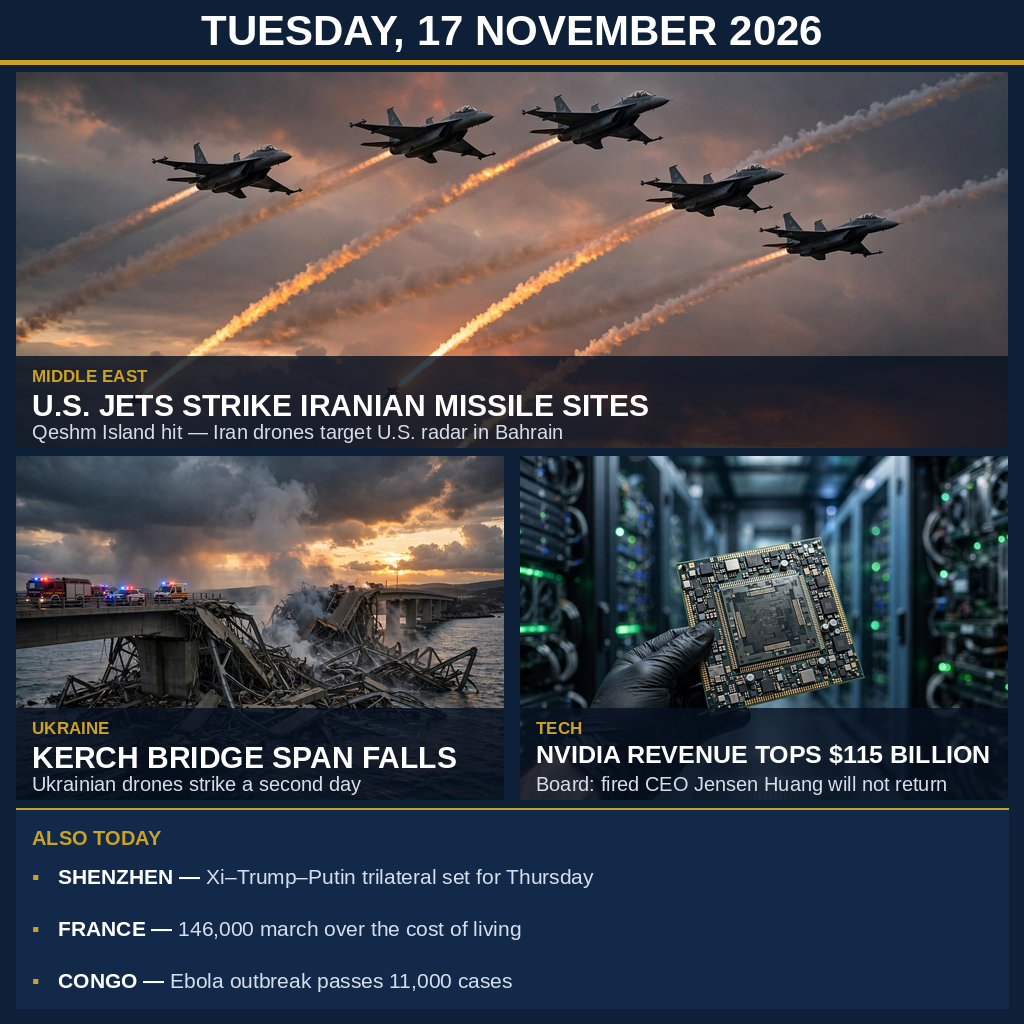
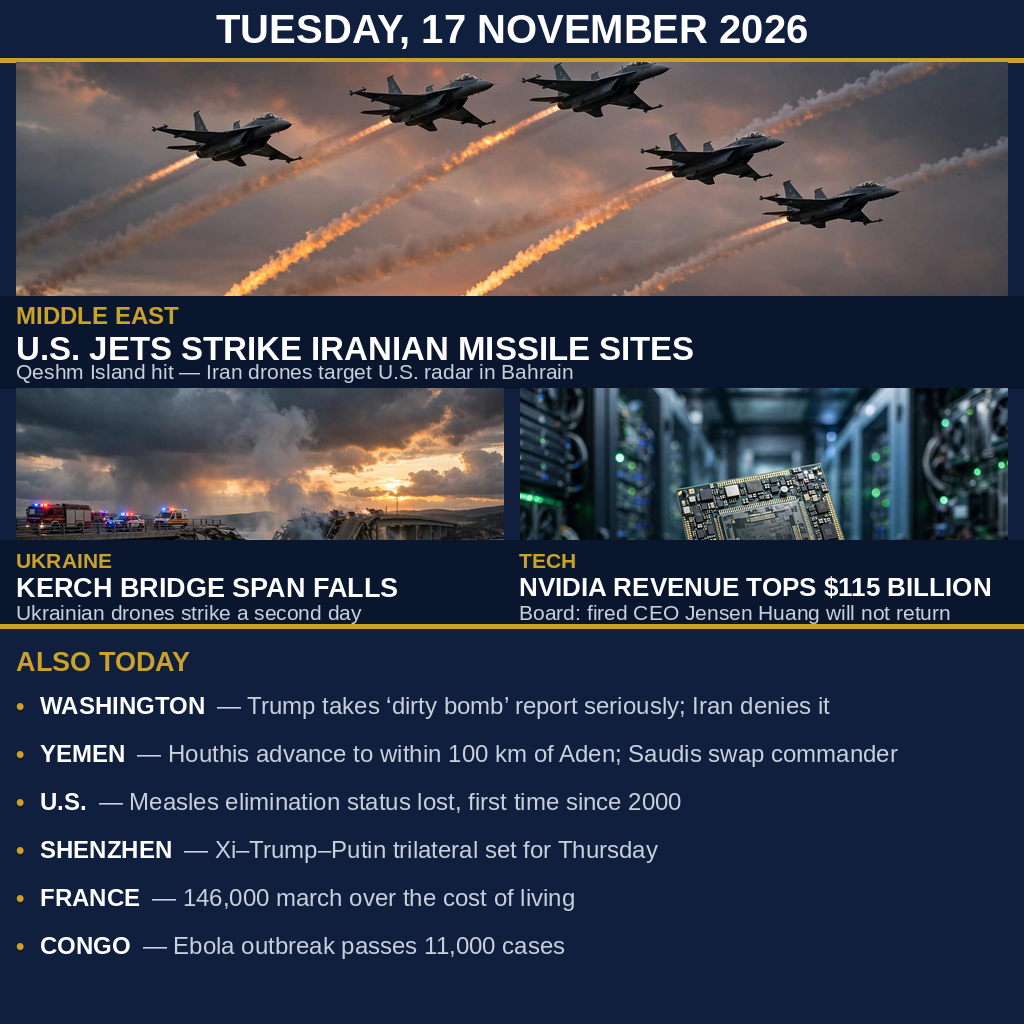
v3: full-day breadth — dirty-bomb report, Houthi advance, measles status lost added to strip

diff --git a/main.py b/main.py
@@ -5,11 +5,16 @@
 # Iranian missile sites on Qeshm Island (and Iran's drones targeting US radar
 # in Bahrain), the Kerch Bridge span brought down by Ukrainian drones, Nvidia
 # topping $115B in quarterly revenue while its board refuses to bring back
-# fired CEO Jensen Huang, plus a strip with the Shenzhen trilateral, the
+# fired CEO Jensen Huang, plus a six-item strip with the full day's verified
+# stories the v2 strip missed: Trump taking the reported "dirty bomb" plot
+# seriously (Iran denies it), the Houthi advance to within 100 km of Aden,
+# the US losing measles elimination status, the Shenzhen trilateral, the
 # French cost-of-living marches and the Ebola outbreak in Congo.
 #
 # This program copies that image to the output directory. It uses no
-# network and is deterministic: every run writes the same bytes.
+# network and is deterministic: every run writes the same bytes. The image
+# was composed with PIL from three scene photos with no text baked in; all
+# text on it was drawn by PIL, so no lettering can come out garbled.
 #
 # Outside the grader's container, MAKEFUN_OUTPUT_DIR stands in for /output:
 #   mkdir -p out && MAKEFUN_OUTPUT_DIR=out python3 main.py

diff --git a/README.md b/README.md
@@ -4,7 +4,7 @@
 [![rank](https://make.fun/badge/news-image-20261117/kingcritket/news-image-20261117-bot/rank.svg)](https://make.fun/bounty/news-image-20261117/leaderboard?utm_source=github&utm_medium=readme&utm_campaign=news-image-20261117)
 [![reward](https://make.fun/badge/news-image-20261117/kingcritket/news-image-20261117-bot/reward.svg)](https://make.fun/bounty/news-image-20261117?utm_source=github&utm_medium=readme&utm_campaign=news-image-20261117)
 
-One image summing up the world news of Tuesday 17 November 2026: US jets strike Iranian missile sites on Qeshm Island, the Kerch Bridge span falls to Ukrainian drones, Nvidia tops $115B in revenue while its board refuses to bring back fired CEO Jensen Huang — plus the Shenzhen trilateral, French cost-of-living marches and the Ebola outbreak in Congo.
+One image summing up the world news of Tuesday 17 November 2026: US jets strike Iranian missile sites on Qeshm Island, the Kerch Bridge span falls to Ukrainian drones, Nvidia tops $115B in revenue while its board refuses to bring back fired CEO Jensen Huang — plus a six-item strip with the full day's verified stories: Trump taking the reported "dirty bomb" plot seriously (Iran denies it), the Houthi advance to within 100 km of Aden, the US losing measles elimination status, the Shenzhen trilateral, French cost-of-living marches and the Ebola outbreak in Congo.
 
 ## Run it
 
